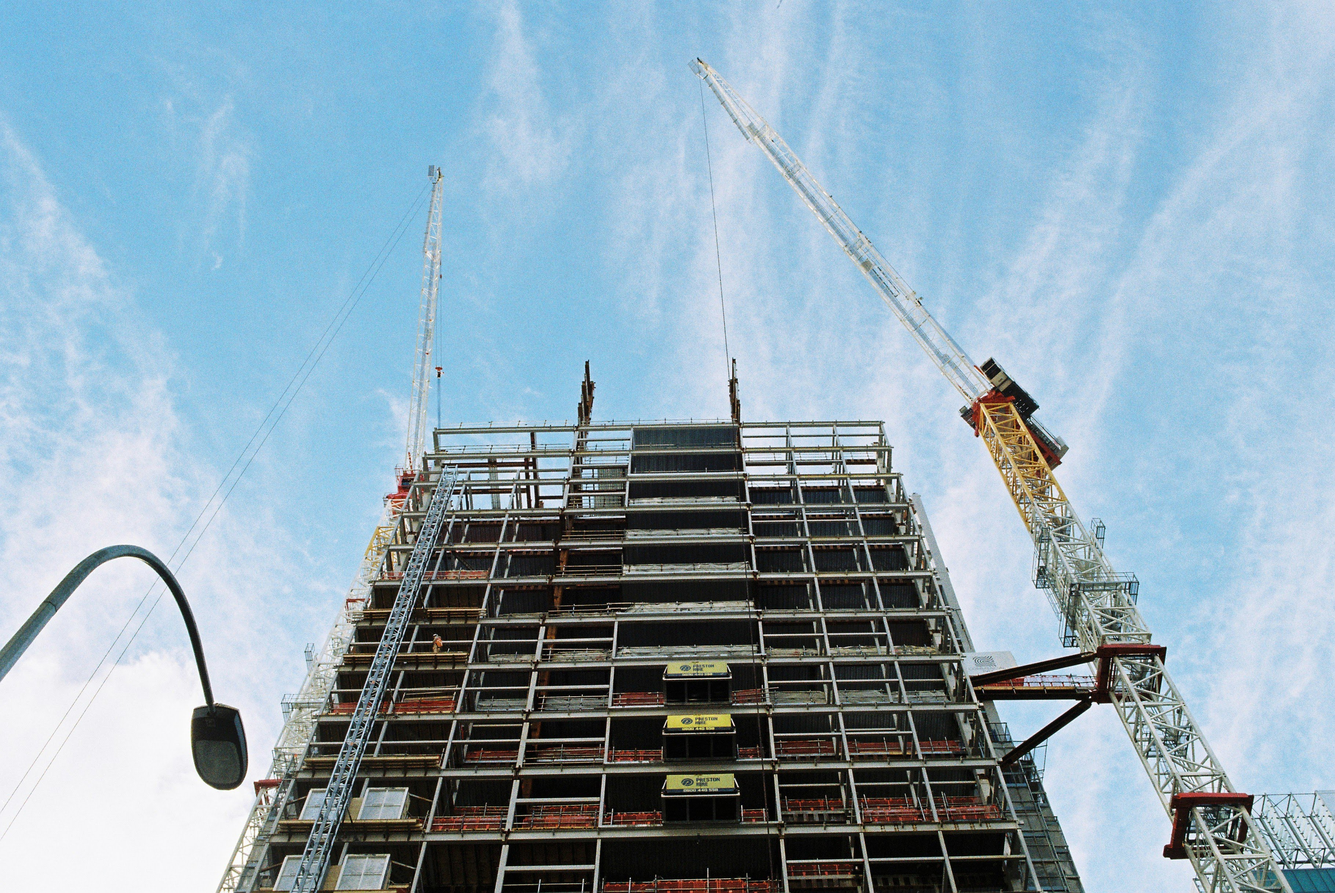
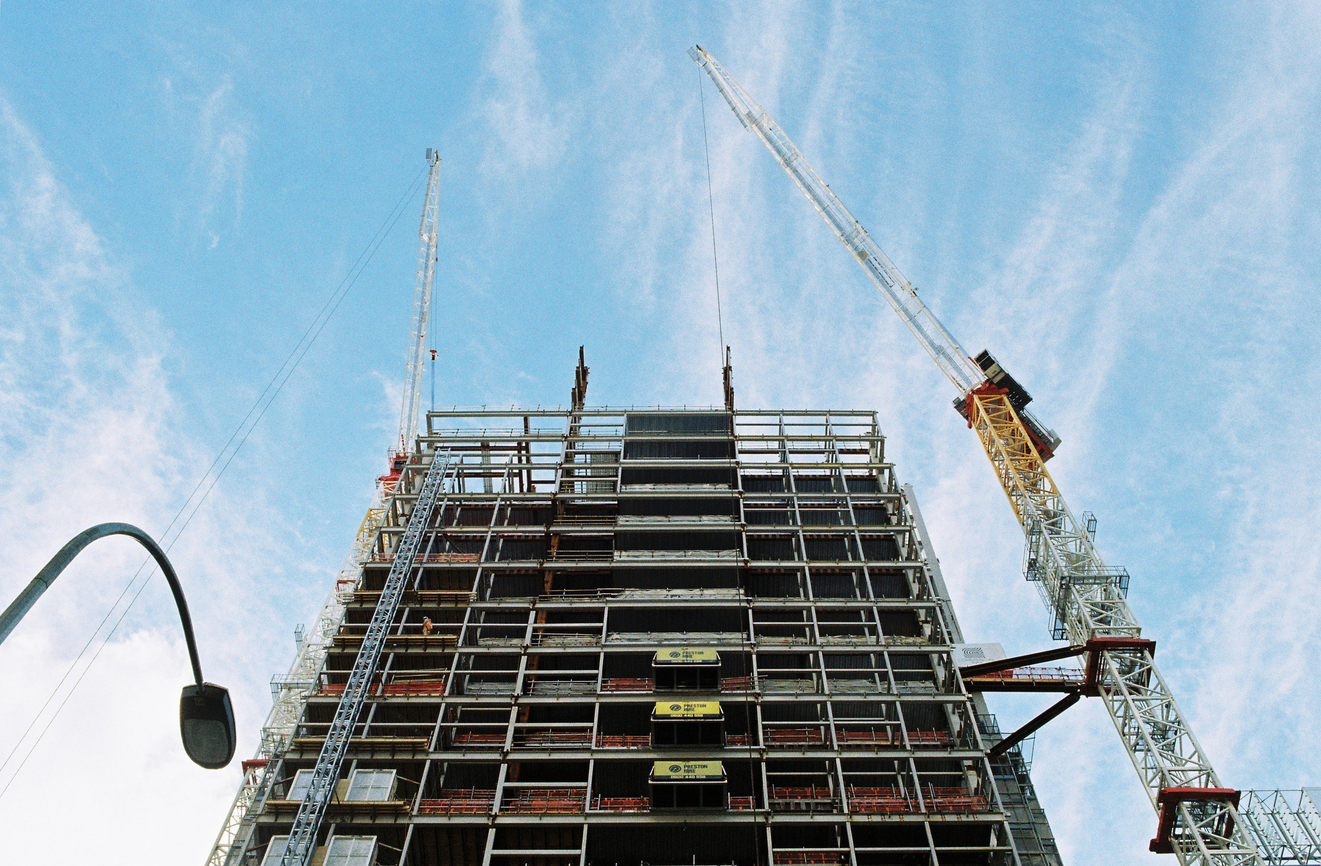
fixed up css + straightened pic

diff --git a/public/css/gallery.css b/public/css/gallery.css
@@ -88,16 +88,23 @@ a{
 }
 
 .hero-item{
-    height:200px;
+/*    height:200px;*/
     padding-left:1em;
     padding-top:1em;
     font-family: 'Open Sans', serif;
+/*    border: 1px black solid;*/
+    margin: 10px;
 }
 
 .hero-header{
     font-size: 6vw;
-    color: #303030;
-    letter-spacing: -6px;
+    color: #aaadaf;
+    letter-spacing: -0.5vw;
     text-decoration:none;
     padding-bottom:20px;
+}
+
+body{
+    background-color: #f1f8fe;
+    color: #aaadaf;
 }

diff --git a/photos.html b/photos.html
@@ -11,7 +11,7 @@ description: I am learning about 35mm film photography, here are some photos I h
     
     <div class="grid-item">
         <div class="hero-item">
-            <a class="hero-header" href="/">Jono Shields</a>
+            <a class="hero-header" href="/"><span style="color:black">Jono</span> Shields</a>
             <p style="margin-top: 20px;">Your friendly neighbourhood Jono.</p>
         </div>
     </div>
